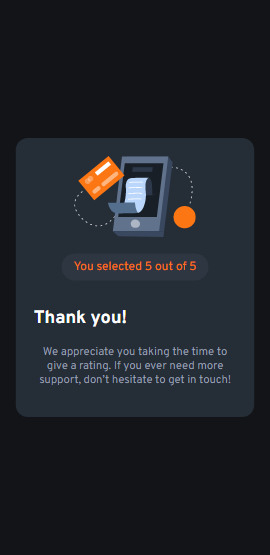
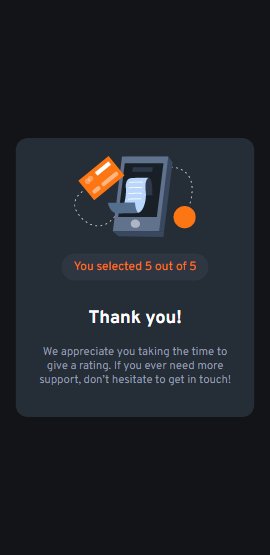
Update

Changed region(s): [[0.1185, 0.5514, 0.6815, 0.6126]]

diff --git a/style.css b/style.css
@@ -111,9 +111,14 @@ section{
     width: fit-content;
 }
 
-#sec-section .text p, h1{
+#sec-section .text p{
     text-align: center;
 }
+
+#sec-section .text h1{
+    text-align: center;
+}
+
 
 @media(max-width: 600px){
    .card{

diff --git a/README.md b/README.md
@@ -30,7 +30,7 @@ Users should be able to:
 ### Links
 
 - [Solution URL](https://github.com/GuilhermeVieiraCode/interactive-rating-component)
-- [Live site URL](https://your-live-site-url.com)
+- [Live site URL](https://rating-component-guivieiracode.netlify.app/)
 
 ### Built with
 
